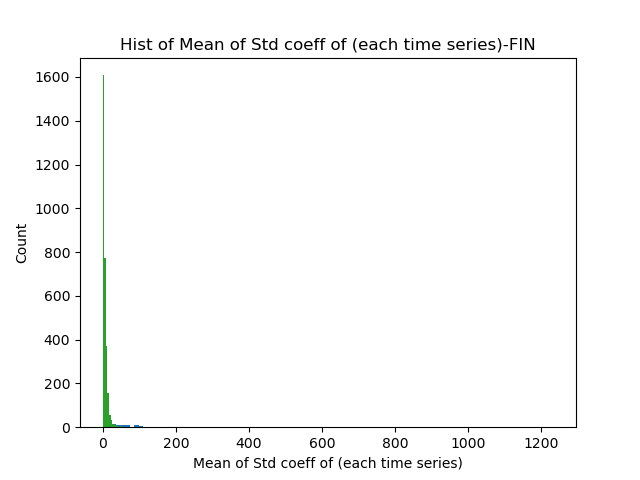
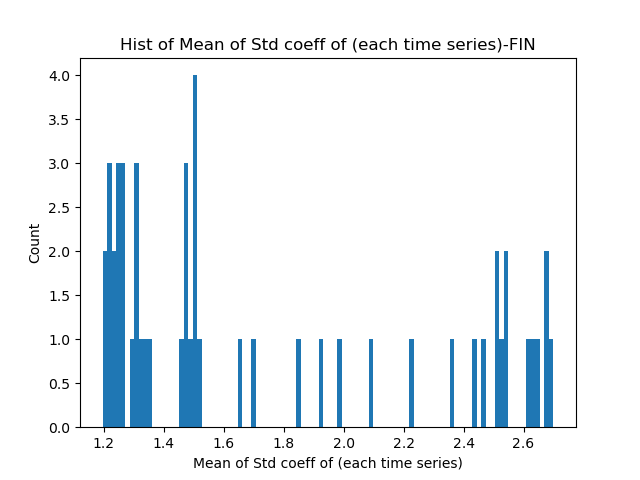
sxs

diff --git a/dataset_test.py b/dataset_test.py
@@ -8,7 +8,7 @@ import matplotlib.pyplot as plt
 import math
 
 size_bw = int(20) 
-ts=np.load('./datasets/data_noea.npy')#change to your local path
+ts=np.load('/localdisk2/draco/tsubasa/fin_dataset.npy')#change to your local path
 #ts=ts[5:10,:]
 size_sliding=50
 
@@ -20,17 +20,17 @@ print(crosstime_stdmean)
 #max_min_list=max_min_list[(max_min_list >= 50) & (max_min_list <= -100)]
 #p#rint(mean_list)
 plt.hist(mean_list,bins=100)
-plt.title("Hist of Mean of Std coeff of (each time series)-NOEA")
+plt.title("Hist of Mean of Std coeff of (each time series)-FIN")
 plt.xlabel("Mean of Std coeff of (each time series)")
 plt.ylabel("Count")
-plt.savefig('plot_Hist of Mean of Std coeff of (each time series)_noea')
+plt.savefig('plot_Hist of Mean of Std coeff of (each time series)_FIN')
 plt.show()
 
 plt.plot(np.arange(0, crosstime_stdmean.shape[1]), crosstime_stdmean.mean(axis=0))
-plt.title("Cross-time-series of Mean of Std-NOEA")
+plt.title("Cross-time-series of Mean of Std-FIN")
 plt.xlabel("time")
 plt.ylabel("Mean of std of cross time series")
-plt.savefig('Mean of std of cross time series_noea')
+plt.savefig('Mean of std of cross time series_FIN')
 plt.show()
 
 print(np.mean(ts))
